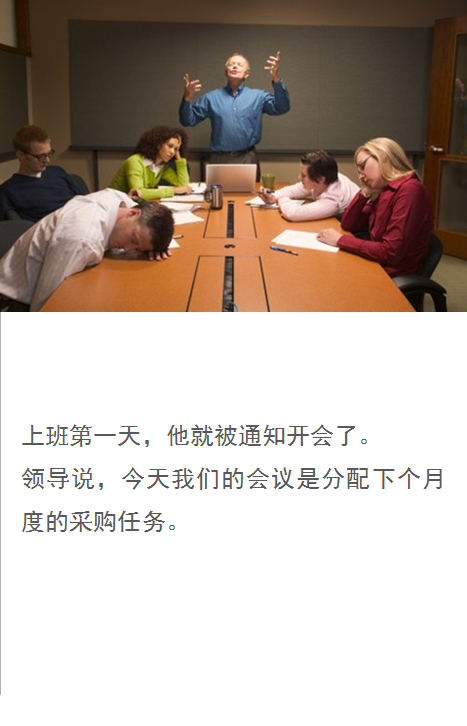
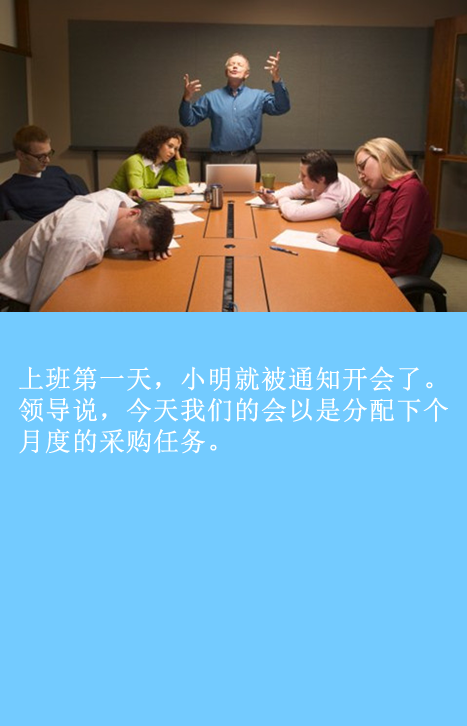
u

diff --git a/demo/2015-01-07/toll-gate.css b/demo/2015-01-07/toll-gate.css
@@ -89,7 +89,7 @@ body {
 }
 
 .section-welcome, .section-iconograph, .section-end {
-    background-color: #7F6CFF;
+    background-color: #BBD6EE;
     z-index: 50;
     display: block;
     top: 0;

diff --git a/demo/2015-01-07/index.html b/demo/2015-01-07/index.html
@@ -86,7 +86,6 @@
 </div>
 
 <div class="section section-iconograph">
-    <img src="">
     <a class="btn-primary hide" onclick="javascript: window.location.reload();">再玩一次</a>
 </div>
 
